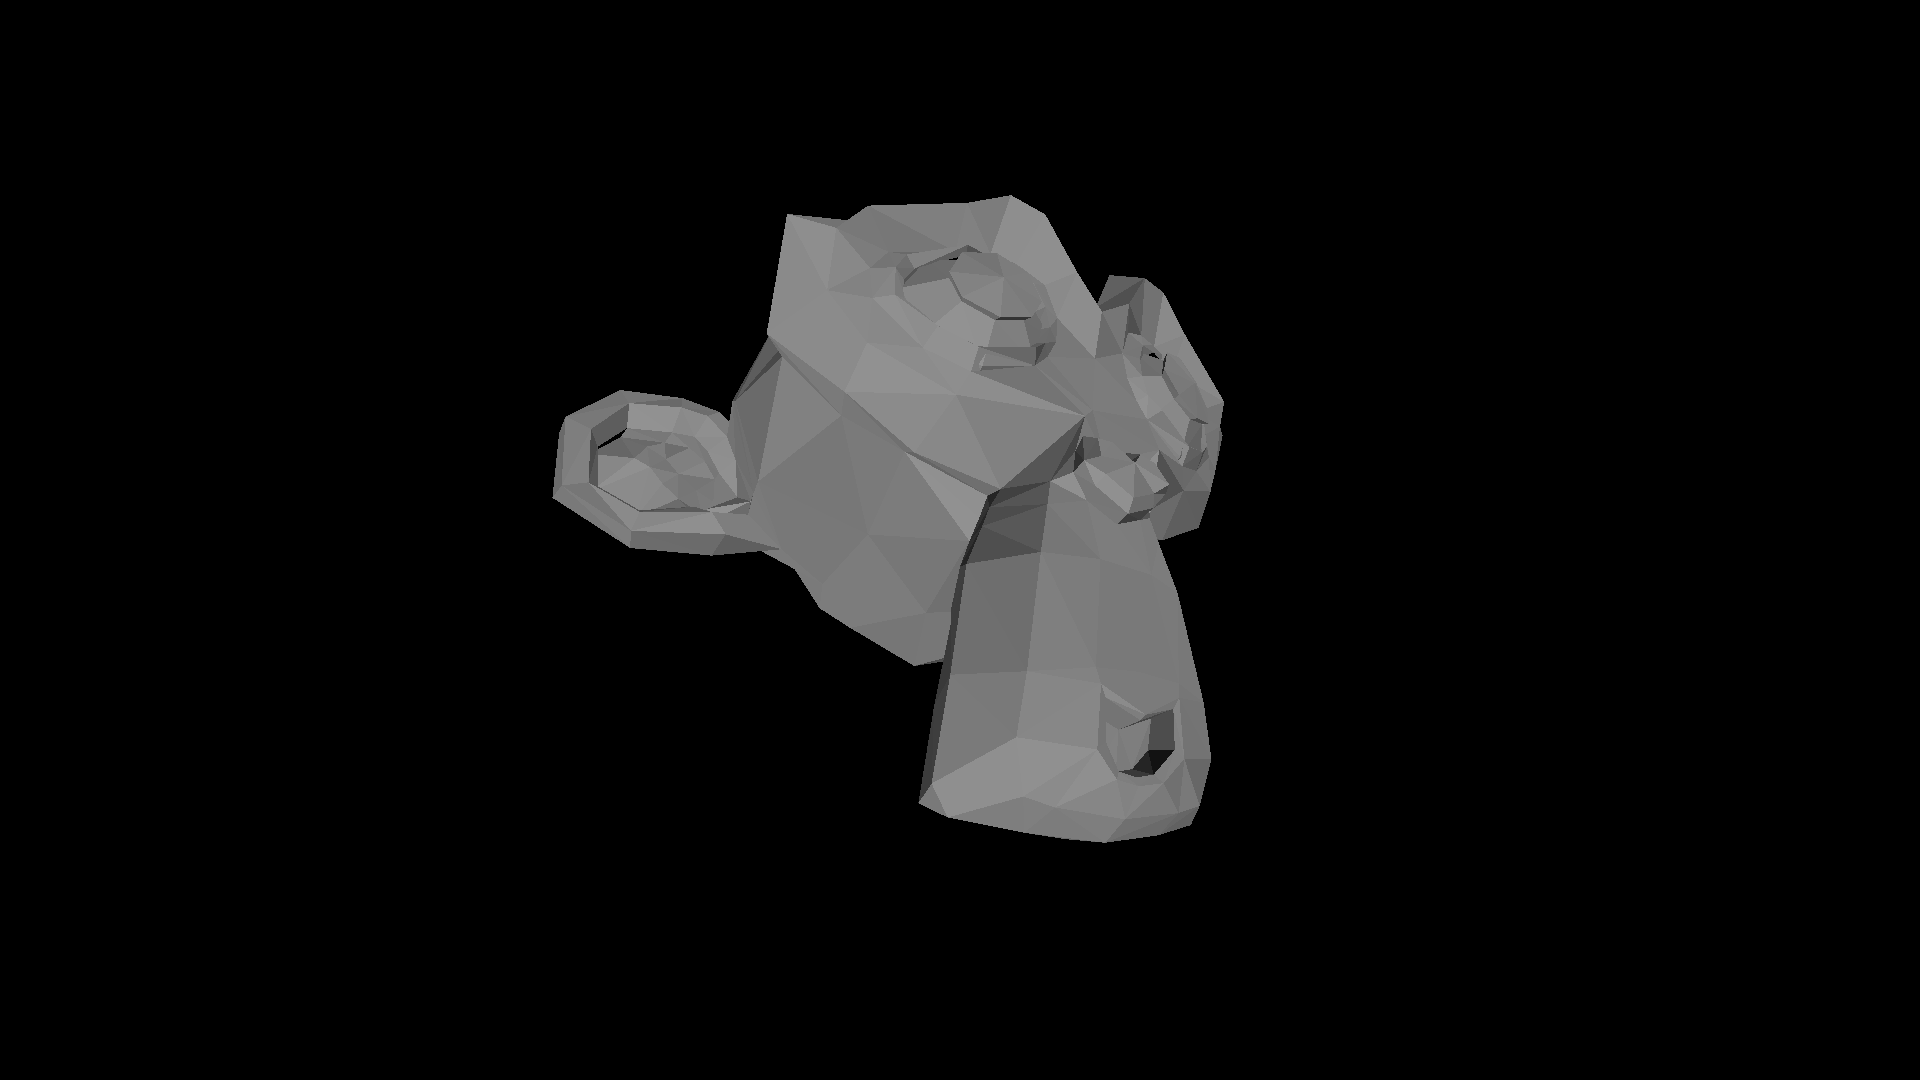
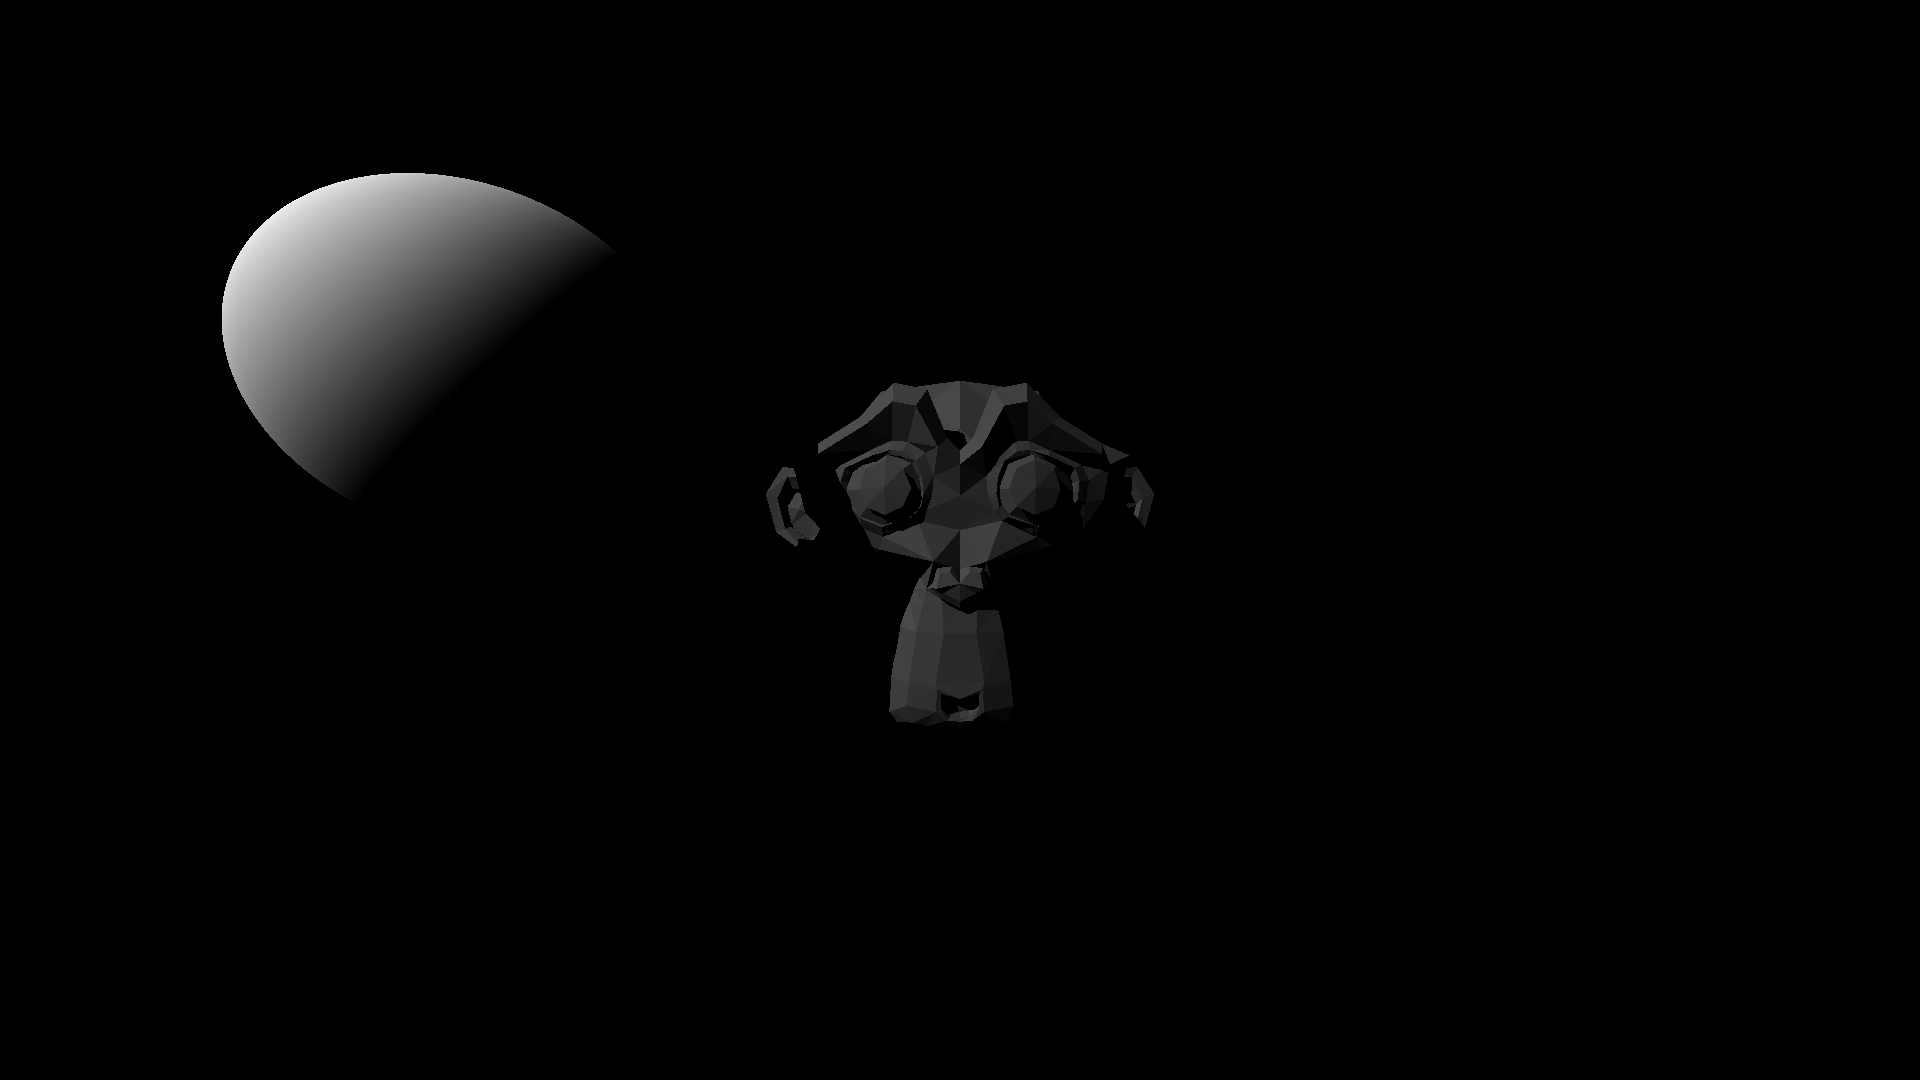
Add shadows

Changed region(s): [[0.2812, 0.1833, 0.6562, 0.7944], [0.0938, 0.1528, 0.3125, 0.4583]]

diff --git a/src/triangle.rs b/src/triangle.rs
@@ -22,47 +22,50 @@ impl Triangle {
     pub fn intersect(self, ray: Ray) -> Option<Intersection> {
         let e1 = self.v1 - self.v0;
         let e2 = self.v2 - self.v0;
-
         let p = ray.direction.cross(e2);
         let det = e1.dot(p);
 
         if det == 0. {
-            None
-        } else {
-            let inv_det = 1. / det;
-            let t = ray.origin - self.v0;
-            let u = t.dot(p) * inv_det;
-            if u < 0. || u > 1. {
-                None
-            } else {
-                let q = t.cross(e1);
-                let v = ray.direction.dot(q) * inv_det;
-                if v < 0. || u + v > 1. {
-                    None
-                } else {
-                    let t = e2.dot(q) * inv_det;
-                    Some(Intersection {
-                        t: t,
-                        point: ray.at(t),
-                        object: self.into()
-                    })
-                }
-            }
+            return None;
         }
+
+        let inv_det = 1.0 / det;
+        let t = ray.origin - self.v0;
+        let u = t.dot(p) * inv_det;
+        if u < 0.0 || u > 1.0 {
+            return None;
+        }
+
+        let q = t.cross(e1);
+        let v = ray.direction.dot(q) * inv_det;
+        if v < 0.0 || u + v > 1.0 {
+            return None;
+        }
+
+        let t = e2.dot(q) * inv_det;
+
+        if t > 0. {
+            return Some(Intersection {
+                t,
+                object: self.into(),
+                point: ray.at(t),
+            });
+        }
+
+        None
     }
 
     pub fn normal_at_point(self, point: Point) -> Vector {
         if let Some(n1) = self.n1 {
             if let Some(n2) = self.n2 {
                 if let Some(n3) = self.n3 {
-                    let s1 = (self.v0 - point).len();
-                    let s2 = (self.v1 - point).len();
-                    let s3 = (self.v2 - point).len();
-                    let s_sum = s1 + s2 + s3;
-                    let s1 = s1 / s_sum;
-                    let s2 = s2 / s_sum;
-                    let s3 = s3 / s_sum;
-                    return n1 * s1 + n2 * s2 + n3 * s3;
+                    let v0 = self.v0 - point;
+                    let v1 = self.v1 - point;
+                    let v2 = self.v2 - point;
+                    let u = v1.cross(v2).dot(v0) / n1.dot(n1);
+                    let v = v2.cross(v0).dot(v1) / n2.dot(n2);
+                    let w = 1.0 - u - v;
+                    return n1 * u + n2 * v + n3 * w;
                 }
             }
         }

diff --git a/src/renderer.rs b/src/renderer.rs
@@ -4,7 +4,7 @@ use image::{Rgb, RgbImage};
 use pbr::ProgressBar;
 use rayon::iter::{IntoParallelIterator, ParallelIterator};
 
-use crate::{scene::Scene, light::Light, color::Color, intersection::Intersection};
+use crate::{scene::Scene, light::Light, color::Color, intersection::Intersection, ray::Ray};
 
 pub enum Renderer<'a> {
     Console(Console<'a>),
@@ -40,7 +40,7 @@ impl<'a> Console<'a> {
 
                 let mut symbol = ' ';
 
-                if let Some(intersection) = self.scene.intersect(ray) {
+                if let Some(intersection) = self.scene.closest_intersection(ray) {
                     let Intersection { object, point, .. } = intersection;
                     match self.scene.lights[0] {
                         Light::Directional(light) => {
@@ -114,18 +114,26 @@ impl<'a> Png<'a> {
 
                 let mut color = Color::new(0, 0, 0);
 
-                if let Some(intersection) = self.scene.intersect(ray) {
+                if let Some(intersection) = self.scene.closest_intersection(ray) {
                     let Intersection { object, point, .. } = intersection;
                     for l in &self.scene.lights {
                         match l {
                             Light::Directional(light) => {
-                                let normal = object.normal_at_point(point);
-                                let product = -light.direction.dot(normal);
-                                if product < 0. {
-                                    continue;
-                                }
+                                let reverse_light_direction = -light.direction.normalize();
+                                let ray = Ray::new(point + reverse_light_direction * 0.00001, reverse_light_direction);
 
-                                color += Color::new(255, 255, 255) * product;
+                                if self.scene.intersection(ray) == None {
+                                    let normal = object.normal_at_point(point);
+
+                                    let product = reverse_light_direction.dot(normal);
+                                    if product < 0. {
+                                        continue;
+                                    }
+
+                                    color += Color::new(255, 255, 255) * product;
+                                } else {
+                                    // color += Color::new(20, 20, 20);
+                                }
                             }
                         }
                     }

diff --git a/src/main.rs b/src/main.rs
@@ -1,4 +1,4 @@
-use graphics_engine::{camera::Camera, point::Point, scene::Scene, vector::Vector, light::{Directional}, renderer::{Renderer, Png}, mesh::Mesh, matrix::Matrix};
+use graphics_engine::{camera::Camera, point::Point, scene::Scene, vector::Vector, light::{Directional}, renderer::{Renderer, Png}, mesh::Mesh, matrix::Matrix, sphere::Sphere};
 use clap::Parser;
 
 const WIDTH: u32 = 1920;
@@ -19,13 +19,11 @@ fn main() {
    
     let mut scene = Scene::new(Camera::new(Point::new(0., 0., 1.), 90., WIDTH as f32 / HEIGHT as f32, HEIGHT), vec![], vec![]);
 
-    // scene.add_intersectable(Sphere::new(Point::new(0., 0., -1.5), 0.7).into());
-    // scene.add_intersectable(Plane::new(Vector::new(0., 0., 1.), Point::new(0., 0., -1.)).into());
-    // scene.add_intersectable(Triangle::new(Point::new(-0.5, 0., -0.5), Point::new(0., 1., -1.), Point::new(0.5, 0., -1.5)).into());
+    scene.add_intersectable(Sphere::new(Point::new(-0.5, 0., 0.7), 0.2).apply_transform(&Matrix::scale(0.5, 0.5, 0.5)).apply_transform(&Matrix::translate(-0.3, 0.2, 0.)).into());
     let mesh = Mesh::from_model(args.source.as_str()).unwrap();
-    scene.add_mesh(mesh.apply_transform(&Matrix::scale(0.5, 0.5, 0.5)).apply_transform(&Matrix::rotate_y(3.14 / 6.)).apply_transform(&Matrix::rotate_x(-3.14 / 6.)));
-    scene.add_light(Directional { direction: Vector::new(-1., -1., -1.).normalize() }.into());
-    scene.add_light(Directional { direction: Vector::new(1., 1., -1.).normalize() }.into());
+    scene.add_mesh(mesh.apply_transform(&Matrix::scale(0.3, 0.3, 0.3)));
+    // scene.add_light(Directional { direction: Vector::new(-1., -1., -1.).normalize() }.into());
+    scene.add_light(Directional { direction: Vector::new(1., -1., -1.).normalize() }.into());
 
     let png_renderer: Renderer = Png::new(&scene, args.output, WIDTH, HEIGHT).into();
     png_renderer.render();

diff --git a/src/scene.rs b/src/scene.rs
@@ -19,7 +19,7 @@ impl Scene {
         self.camera.ray_for_pixel(x, y)
     }
 
-    pub fn intersect(&self, ray: Ray) -> Option<Intersection> {
+    pub fn closest_intersection(&self, ray: Ray) -> Option<Intersection> {
         let mut closest_intersection: Option<Intersection> = None;
 
         for object in &self.objects {
@@ -31,6 +31,16 @@ impl Scene {
         }
 
         closest_intersection
+    }
+
+    pub fn intersection(&self, ray: Ray) -> Option<Intersection> {
+        for object in &self.objects {
+            if let Some(intersection) = object.intersect(ray) {
+                return Some(intersection)
+            }
+        }
+
+        None
     }
 
     pub fn add_intersectable(&mut self, intersectable: Intersectable) {
@@ -72,7 +82,7 @@ mod tests {
         let origin = Point::new(0., 20., 0.);
         let direction = Vector::new(0., -1., 0.);
         let ray = Ray::new(origin, direction);
-        let intersection = scene.intersect(ray);
+        let intersection = scene.closest_intersection(ray);
         if let Some(intersection) = intersection {
             assert_eq!(Point::new(0., 7., 0.), intersection.point);
             assert_eq!(13., intersection.t);
